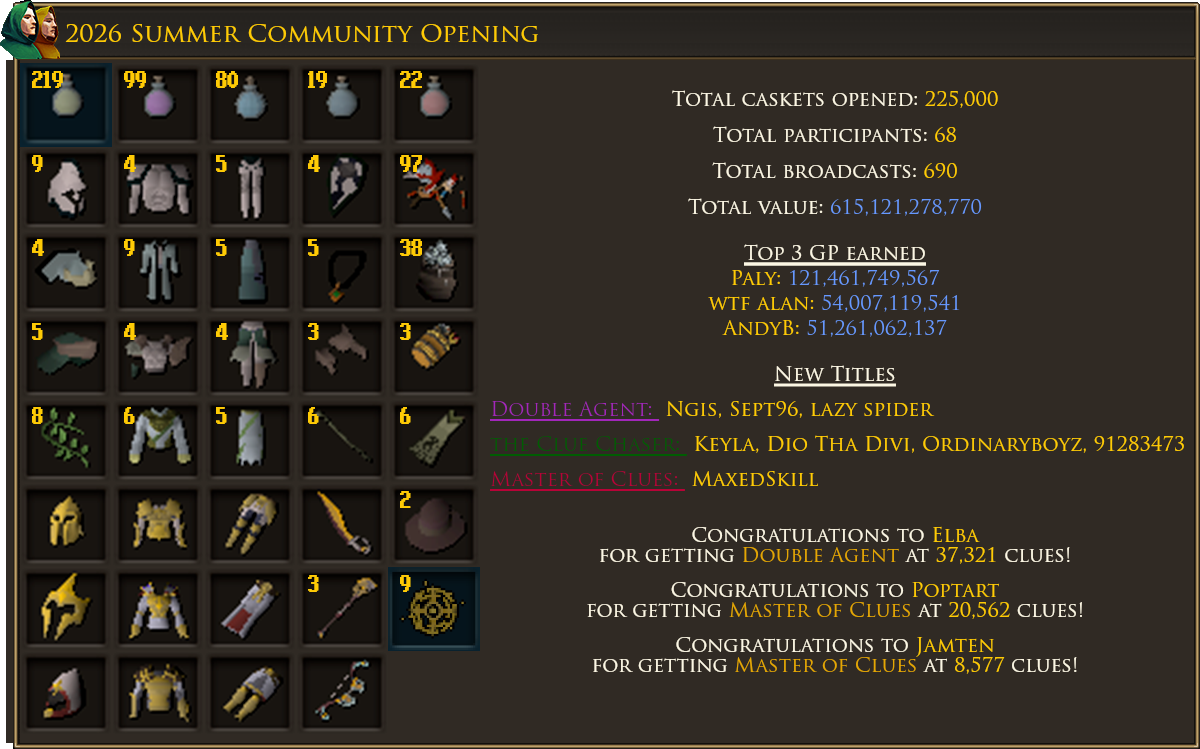
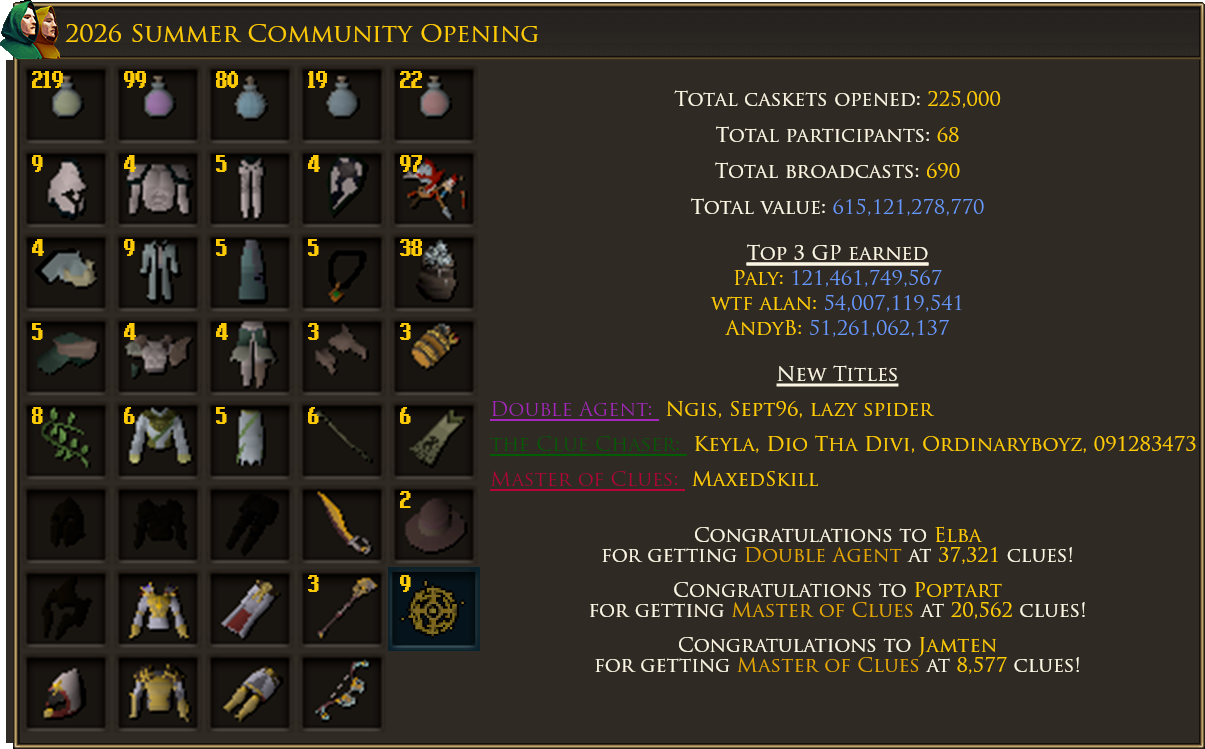
found barrows dye image

diff --git a/community_opening.ts b/community_opening.ts
@@ -7,7 +7,7 @@ import { Image } from '@napi-rs/canvas';
 
 CommunityOpening.title = '2026 Summer Community Opening';
 CommunityOpening.filename = '2026 Summer Community Opening.png';
-CommunityOpening.width = 1200;
+CommunityOpening.width = 1205;
 // CommunityOpening.height += 60;
 const imageRootPath = './images/';
 
@@ -84,7 +84,7 @@ ClueTitles.elite.base.list.push('Dio Tha Divi');
 ClueTitles.elite.base.list.push('Ordinaryboyz');
 ClueTitles.master.base.list.push('MaxedSkill');
 ClueTitles.hard.base.list.push('lazy spider');
-ClueTitles.elite.base.list.push('91283473');
+ClueTitles.elite.base.list.push('091283473');
 /*end here */
 
 const textStart = 490;
@@ -102,25 +102,26 @@ const itemMap = new Map();
 
 // const imageMetadata = new Map();
 
-for (const [key, value] of broadcasts) {
-  	console.log(key);
-	let litUnlit = 'lit';
-	const test = await loadImage(`${imageRootPath}${value.filename}${key.toLowerCase() == 'blank' ? '' : `_${litUnlit}`}.png`);
-	let index = itemImageMap.push(loadImage(`${imageRootPath}${value.filename}${key.toLowerCase() == 'blank' ? '' : `_${litUnlit}`}.png`)) - 1;
-	itemMap.set(index, key);
-	totalBroadcasts += value.data.count;
-	totalValue += BigInt(value.data.count.toString()) * BigInt(value.data.value.toString());
-}
-
-
-// broadcasts.forEach(async (value, key) => {
-// 	// console.log(value);
-// 	let litUnlit = value.data.count == 0 ? 'unlit' : 'lit';
+/*used to check if images are loading*/
+// for (const [key, value] of broadcasts) {
+//   	console.log(key);
+// 	let litUnlit = 'lit';
+// 	const test = await loadImage(`${imageRootPath}${value.filename}${key.toLowerCase() == 'blank' ? '' : `_${litUnlit}`}.png`);
 // 	let index = itemImageMap.push(loadImage(`${imageRootPath}${value.filename}${key.toLowerCase() == 'blank' ? '' : `_${litUnlit}`}.png`)) - 1;
 // 	itemMap.set(index, key);
 // 	totalBroadcasts += value.data.count;
 // 	totalValue += BigInt(value.data.count.toString()) * BigInt(value.data.value.toString());
-// });
+// }
+
+
+broadcasts.forEach(async (value, key) => {
+	// console.log(value);
+	let litUnlit = value.data.count == 0 ? 'unlit' : 'lit';
+	let index = itemImageMap.push(loadImage(`${imageRootPath}${value.filename}${key.toLowerCase() == 'blank' ? '' : `_${litUnlit}`}.png`)) - 1;
+	itemMap.set(index, key);
+	totalBroadcasts += value.data.count;
+	totalValue += BigInt(value.data.count.toString()) * BigInt(value.data.value.toString());
+});
 
 Promise.all([Promise.all(itemImageMap)])
 .then(result => {
